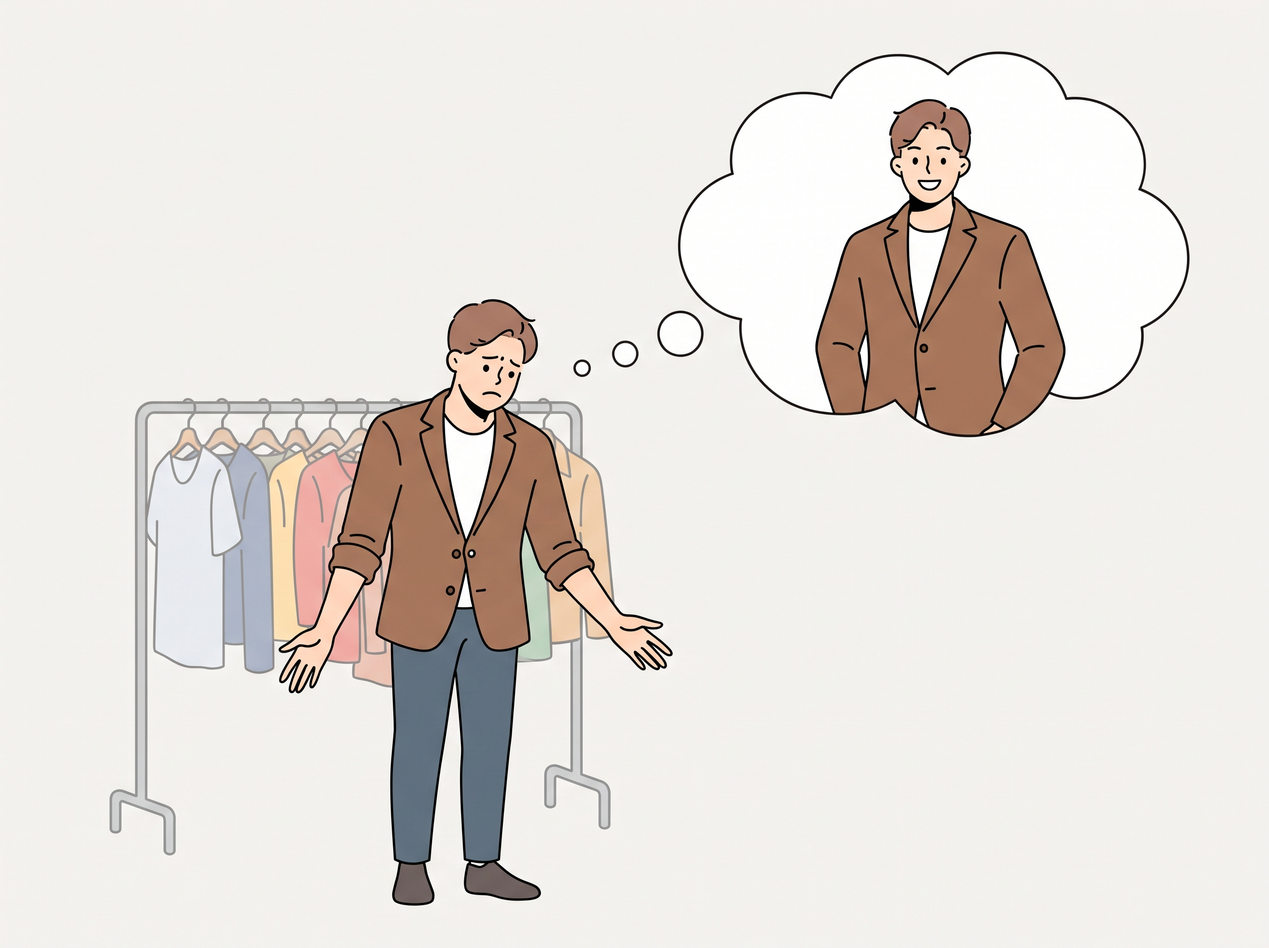
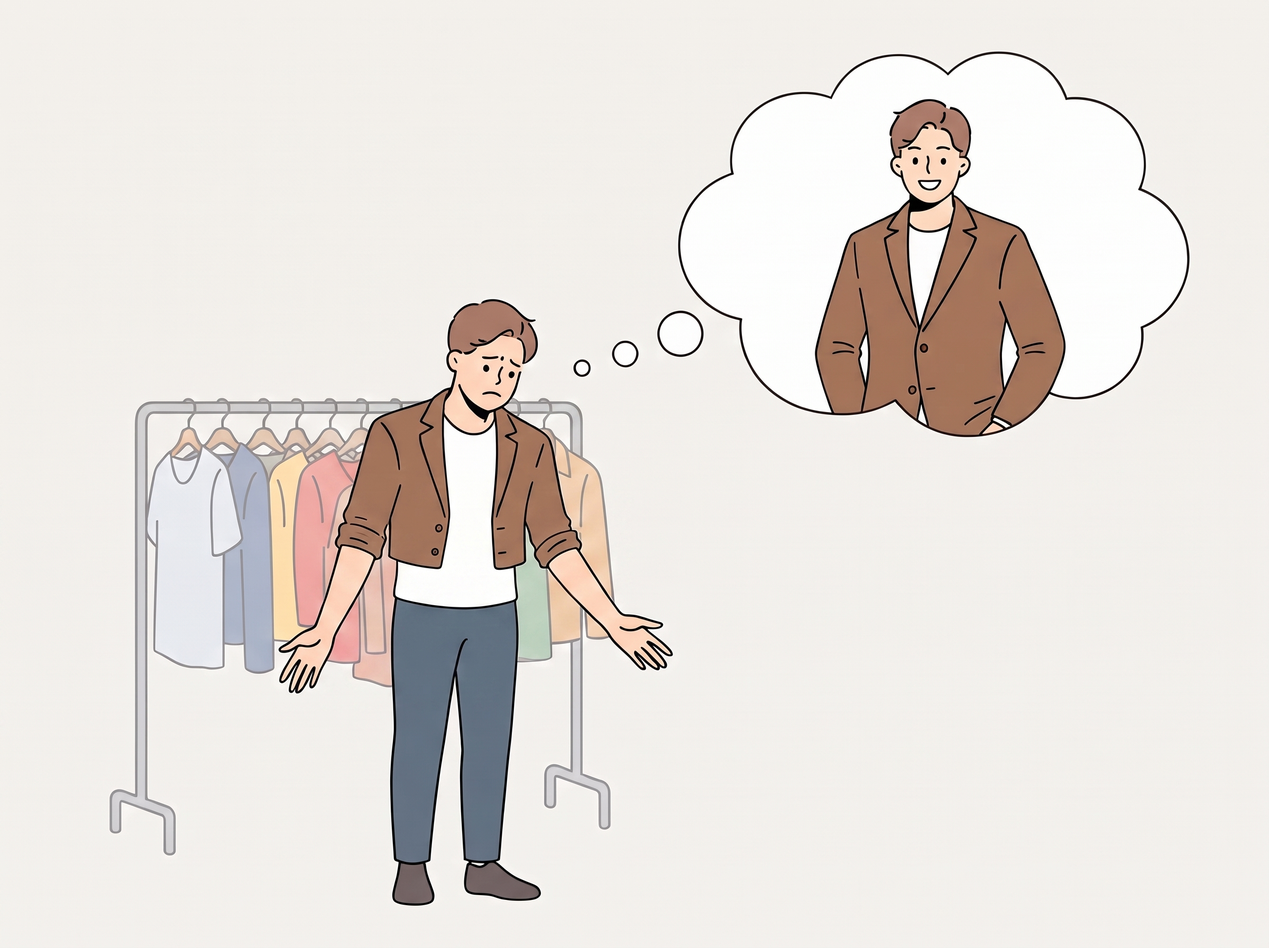
準2級の第6回と2級の第6〜10回を公開した
準2級第6回のイラストBを描き直した画像に差し替え、2級第6〜10回の3コマ画像を
取り込んだ。2級は Gemini アプリに 21:9 がないので 16:9 で生成した。
画像を見て、2級第7回（吹き出しは父から）と第8回（行列がはっきりしない）の
No.2 解答例を直してから draft を外した。

diff --git a/docs/spec-grade2-06-10.md b/docs/spec-grade2-06-10.md
@@ -18,6 +18,12 @@
 
 第7回の1コマ目は屋外なので、上4分の1は壁ではなく空を空けておく指示にしてある。
 
+## 取り込みの記録（2026-11-21）
+
+- 5回分とも Gemini アプリで 16:9 を選んで生成した（アプリの縦横比に 21:9 がなくなったため）。第7回は 16:9 の中に横長の帯として描かれ、スクリプトが上下の余白を落としたので、コマは第1〜5回と同じ形になった。ほかの4回は画面いっぱいに描かれ、コマが少し縦長になった
+- 画像を見て解答例を2か所直した。第7回2コマ目の吹き出しは運転している父から出ていたので、充電を考えているのを父にした。第8回3コマ目はカフェの前の行列がはっきりしないので、通りの混雑と3人の様子を述べる文にした
+- 5回とも、せりふを言う人は1コマ目の左にいる（`speech.side` は `left` のまま）
+
 ---
 
 ## Set 6 — Animal Shelters
@@ -93,7 +99,7 @@ Electric cars are becoming more common in Japan. They do not produce harmful gas
 | コマ | 矢印の語句 | 内容 |
 | --- | --- | --- |
 | 1 | — | 家の前で充電中の車。父が自慢げに指さす。せりふ "The battery is full, so we can drive to the beach without stopping." |
-| 2 | On the highway | 渋滞で電池の表示が残りわずか。父は心配し、母は充電することを考える |
+| 2 | On the highway | 渋滞で電池の表示が残りわずか。父が充電することを考える |
 | 3 | At a service area | 充電器の前に車が並んでいる。父は腕時計を見て、ケンは退屈している |
 
 **3コマ漫画 生成プロンプト**（共通ヘッダー込み）
@@ -112,7 +118,7 @@ Panel 3 (a charging station at a highway service area, daytime): four electric c
 - One day, the Sato family was going to the beach in their new electric car.
 - Mr. Sato said to his family, "The battery is full, so we can drive to the beach without stopping."
 - On the highway, there was a traffic jam, and the battery was getting low.
-- Mrs. Sato was thinking of charging the car.
+- Mr. Sato was thinking of charging the car.
 - At a service area, many cars were waiting to use the charger.
 - Mr. Sato was looking at his watch, and Ken looked bored.
 
@@ -148,7 +154,7 @@ The number of tourists visiting Japan has been increasing. Some famous places ar
 | --- | --- | --- |
 | 1 | — | 旅館の部屋でケンタがタブレットの寺の写真を見せる。せりふ "Let's go to the temple early tomorrow morning before it gets crowded." |
 | 2 | The next morning | 朝の寺はすいている。母が写真を撮る。父はカフェで和菓子を食べるところを思い浮かべる |
-| 3 | That afternoon | 午後の商店街は大混雑。カフェの前に長い行列ができていて、父はがっかりしている |
+| 3 | That afternoon | 午後の商店街は観光客で大混雑。3人とも疲れて、がっかりしている |
 
 **3コマ漫画 生成プロンプト**（共通ヘッダー込み）
 
@@ -167,8 +173,8 @@ Panel 3 (a narrow shopping street in the afternoon, very crowded, with many tour
 - Kenta said to his parents, "Let's go to the temple early tomorrow morning before it gets crowded."
 - The next morning, there were no other people at the temple, and Kenta's mother was taking a picture.
 - Kenta's father was looking forward to eating Japanese sweets at a café.
-- That afternoon, the shopping street was very crowded.
-- There was a long line in front of the café, and Kenta's father was disappointed.
+- That afternoon, the shopping street was very crowded with tourists.
+- Kenta and his parents looked tired and disappointed.
 
 **No.3** — Some people say that Japan should welcome more tourists from other countries. What do you think about that?
 

diff --git a/CLAUDE.md b/CLAUDE.md
@@ -2,7 +2,7 @@
 
 高校生向けに、英検二次試験（面接）を本番と同じ流れで練習できるWebアプリを作る。生徒が英語で話し、その内容にAIが日本語でコメントと添削を返す。アプリ名は「ニジトレ」。手元のフォルダ名は eiken-2ji、GitHub のリポジトリ名は niji-tore。
 
-対象は準2級・2級・3級。準2級は第1〜5回と第7〜10回、2級と3級は第1〜5回が使える。準2級の第6回（イラストBの描き直し待ち）と2級の第6〜10回は、問題文を入れて画像待ち（下記の6）。
+対象は準2級・2級・3級。準2級と2級は第1〜10回、3級は第1〜5回が使える。
 
 ## 絶対に守ること
 
@@ -72,7 +72,7 @@ mapping.json は `{"元のファイル名": "01-a"}` の形。値を `_archive` 
 3. 動いたら残り4セットをデータとして流し込む。→ 済み。準備画面で第1〜5回を選べる。練習済みの回は端末の localStorage に記録する。第2〜5回の No.2 解答例はイラストを見て直した（2026-10-17）。
 4. 準2級が固まったら2級（No.2が3コマのナレーション）→3級に展開する。→ 2級は5回分の問題・画像がそろい、アプリと Worker も対応済み（2026-10-18）。3コマは1枚絵を split_panels.py で切り分け、矢印の語句と1コマ目のせりふはアプリが重ねて表示する。iPhone 実機と実際の AI 講評でも動作を確認した。
 5. 3級：5回分の問題・画像がそろい、トップページから使える（2026-10-20）。アプリと Worker は3級の形式（イラスト1枚、`picture` / `self` 型、No.5 の No のときの質問が問題ごとに違う `noFollowUp`）に対応済み。画像は mapping の値をセット番号だけにして rename_images.py grade3 で取り込む。iPhone 実機と実際の AI 講評での確認が残り。
-6. 準2級・2級の第6〜10回（2026-11-05）：パッセージ・質問・解答例・生成プロンプトを `docs/spec-pre2-06-10.md` と `docs/spec-grade2-06-10.md` に書き、sets.json に `"draft": true` つきで入れた。下書きの回はアプリに出ない（`&draft=1` で確かめられる）。作者が Nano Banana で画像を作ったら、rename_images.py で取り込み、No.2・No.3 の解答例（2級は No.2 と `speech.side`）を画像に合わせて直してから `draft` を消す。準2級は 2026-11-21 に取り込み、第7〜10回を公開した。第6回はイラストBの上着が小さく見えないので描き直し待ち（直す用のプロンプトは spec-pre2-06-10.md）。アプリの「第N回」は setId の番号から出すので、途中の回が下書きでも番号はずれない。
+6. 準2級・2級の第6〜10回（2026-11-05）：パッセージ・質問・解答例・生成プロンプトを `docs/spec-pre2-06-10.md` と `docs/spec-grade2-06-10.md` に書き、sets.json に `"draft": true` つきで入れた。下書きの回はアプリに出ない（`&draft=1` で確かめられる）。作者が Nano Banana で画像を作ったら、rename_images.py で取り込み、No.2・No.3 の解答例（2級は No.2 と `speech.side`）を画像に合わせて直してから `draft` を消す。2026-11-21 に画像を取り込み、解答例を画像に合わせて直して、準2級・2級とも第6〜10回を公開した。2級の画像は Gemini アプリに 21:9 がないので 16:9 で作った（コマが少し縦長になるが、切り分けとアプリの表示は問題ない）。アプリの「第N回」は setId の番号から出すので、途中の回が下書きでも番号はずれない。
 
 実装は1セット分を通しで動かしてから横に広げる。最初から5セット分のUIを作らない。
 

diff --git a/docs/spec-pre2-06-10.md b/docs/spec-pre2-06-10.md
@@ -20,15 +20,14 @@
 
 - 第7〜10回：画像を取り込み、No.2・No.3 の解答例が絵と合っていることを確かめて公開した
 - 第7回イラストA：左上の空に緑色のにじみがあったので、背景の色で塗りつぶした。元の画像は `images/pre2/_incoming/_archive/` にある
-- 第6回イラストB：上着が小さすぎることが絵から読み取りにくい（袖が七分丈に見え、吹き出しの中とも差がない）ので、描き直すまで下書きのままにしている
+- 第6回イラストB：最初の画像は上着が小さすぎることが絵から読み取りにくかった（袖が七分丈に見え、吹き出しの中とも差がない）ので、下のプロンプトで描き直して差し替え、公開した
 
-第6回イラストBは、今の画像（`images/pre2/pre2-06-b.jpg`）を Gemini にアップロードして、これを貼る。
+第6回イラストBを直したときのプロンプト（元の画像を Gemini にアップロードして貼った）。
 
 ```text
 Edit this image. Make the brown jacket that the man is wearing in the real scene (not in the thought bubble) obviously far too small for him: the sleeves end just below his elbows, the jacket is so short that it ends well above his belt, and the front is pulled tight and cannot be buttoned, with a wide gap showing his white shirt. In the thought bubble, show the same man wearing the same brown jacket in a bigger size that fits him perfectly, with the sleeves reaching his wrists and the front neatly buttoned. Keep everything else the same. Do not add any text.
 ```
 
-できた画像を `images/pre2/_incoming/` に置き、mapping.json に `"06-b"` と書いて rename_images.py を実行すれば差し替わる。
 
 ## イラストBの型
 

diff --git a/README.md b/README.md
@@ -8,10 +8,10 @@
 
 ## 現在の状態
 
-- 準2級：第1〜5回と第7〜10回が完成。第6回はイラストBの描き直し待ちで下書き（`docs/spec-pre2-06-10.md`）
-- 2級：問題5回分と3コマ画像が完成し、アプリで練習できる（`docs/spec-grade2.md`）。第6〜10回は下書きで、画像待ち（`docs/spec-grade2-06-10.md`）
+- 準2級：問題10回分（パッセージ・イラスト・質問・解答例）が完成（第6〜10回は `docs/spec-pre2-06-10.md`）
+- 2級：問題10回分と3コマ画像が完成し、アプリで練習できる（`docs/spec-grade2.md`、第6〜10回は `docs/spec-grade2-06-10.md`）
 - 3級：問題5回分とイラストが完成し、アプリで練習できる（`docs/spec-grade3.md`）
-- アプリ本体：トップページで級を選び、各級の第1〜5回を黙読 → 音読 → 質問 → 講評表示まで通せる。iPhone で確認済み
+- アプリ本体：トップページで級を選び、各級の回（準2級・2級は第1〜10回、3級は第1〜5回）を黙読 → 音読 → 質問 → 講評表示まで通せる。iPhone で確認済み
 - Cloudflare Worker：配置済み（手順は `worker/README.md`）
 
 ## 手元で動かす
